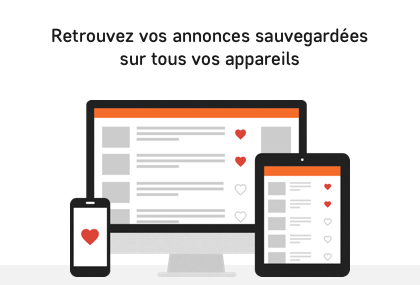
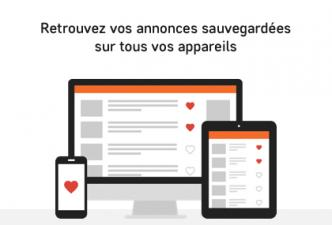
css du header responsive

diff --git a/css/main.css b/css/main.css
@@ -60,6 +60,7 @@ textarea {
 /***********GENERALE******************
 **************************************/
 /***********Menu responsive*************/
+* {border: 1px solid black;}
 .navbar {
   background-color: rgb(245, 107, 42);
 }
@@ -102,19 +103,70 @@ textarea {
 }
 
 
-
 /********Header*******/
 
 h1 {
   font-size: 14px;
   font-weight: bold;
   text-align: center;
+  margin-top: 20px;
+  margin-bottom: 30px;
 }
 
 header span {
   color: rgb(245, 107, 42);
 
 }
+
+#region img {
+  width: 338px;
+  height: 123px;
+}
+
+header a {
+  color: white;
+  background-color: rgb(65, 131, 215);
+  padding: 12px 70px 12px 70px;
+  font-size: 13px;
+  font-weight: bold;
+  border-radius: 4px;
+}
+
+header button {
+  color: rgb(65, 131, 215);
+  background-color: transparent;
+  font-size:13px;
+  font-weight: bold;
+  padding: 12px 57px 12px 57px;
+  border-radius: 4px;
+  border-color: rgb(65, 131, 215);
+  margin-top: 30px;
+
+}
+
+
+
+/********Carte de France******/
+path {
+  fill: rgb(56, 115, 189);
+}
+path:hover{
+  fill: rgb(245, 107, 42);
+}
+/*********************************/
+h2 {
+  font-size: 14px;
+  font-weight: bold;
+
+}
+
+h2 a {
+  color: rgb(51, 102, 153);
+}
+
+/*************Mobile*****************
+*************************************/
+/*************Header***************/
 
 #region {
   display: block;
@@ -124,22 +176,37 @@ header span {
   display: none;
 }
 
+header a {
+  margin: 40px;
+}
+
+header button {
+  margin-left: 40px;
+}
+
+/*********bouton choisir une région*********************/
+
+#region select {
+  background-color: white;
+  padding: 15px 130px 15px 15px;
+  margin:10px;
+  font-weight: bold;
+  border-radius: 4px;
+  border-color: lightgrey;
+}
+
 #region img {
-  width: 338px;
-  height: 123px;
+  margin-left: 10px;
+  margin-top: 15px;
+  border: solid lightgrey 1px;
 }
 
+/*****************Carte de France***********************/
 
-/********Carte de France******/
-path {
-  fill: rgb(51, 102, 153);
+#cartedefrance svg {
+  height: 400px;
+  width: 100%;
 }
-path:hover{
-  fill: rgb(245, 107, 42);
-}
-
-/*************Mobile*****************
-*************************************/
 
 
 /* ==========================================================================
@@ -168,7 +235,27 @@ path:hover{
     left: 40%;
 }
 
+header a {
+  margin: 230px;
+}
 
+header button {
+  margin-left: 230px;
+}
+
+/*****************Bouton choisir une region*********************/
+#region select {
+  width: 98%;
+
+}
+
+/****************Carte de France*****************/
+
+#cartedefrance svg {
+
+  width: 748px;
+  height: 808px;
+}
 }
 
 /*********************Desktop***************
@@ -191,7 +278,7 @@ path:hover{
     border: none;
     margin-right: 110px;
     font-size: 14px;
-    
+
   }
 
 
@@ -204,14 +291,61 @@ path:hover{
   #actualite {
     display: block;
   }
+ h1 {
+   margin-bottom: 50px;
+   margin-left: 90px;
+   text-align: left;
+ }
+header a {
+  margin-left: 90px;
+  padding-left: 98px;
+  padding-right: 98px;
+}
 
+header button {
+  margin-left: 90px;
+  padding-left: 84px;
+  padding-right: 84px;
+}
+
+#actualite {
+  width: 334px;
+  height: 290px;
+  margin-left: 90px;
+  margin-top: 20px;
+
+
+}
+
+header article {
+width: 500px;
+}
+
+header h2 {
+  height: 50px;
+  background-color: rgb(102, 102, 102);
+  color: white;
+  text-align: center;
+  padding-top: 15px;
+}
+
+/**************Carte de France**********************/
+#cartedefrance svg {
+  width: 500px;
+  height: 500px;
+  margin-top: 20px;
+}
+/*********Aside****************/
   aside {
     display: block;
   }
+
+
   aside li {
     list-style: none;
     text-align: right;
   }
+
 
   aside a {
     color:rgb(51, 102, 153);
@@ -221,14 +355,14 @@ path:hover{
     color: rgb(245, 107, 42);
     text-decoration: none;
   }
-
-  #foothaut li {
-    list-style: none;
+/**************Footer********************/
+#foothaut li {
+  list-style: none;
   }
 
-  #foothaut a {
-    color: rgb(51, 102, 153);
-    text-decoration: none;
+#foothaut a {
+  color: rgb(51, 102, 153);
+  text-decoration: none;
 }
 
 #foothaut a:hover {

diff --git a/index.html b/index.html
@@ -73,7 +73,7 @@
 <!--******Fin du header*********-->
 
 <!--*****Carte de France******-->
-  <div class="col-12 col-md-12 col-lg-4">
+  <div id="cartedefrance" class="col-12 col-md-12 col-lg-4">
 
     <svg xmlns="http://www.w3.org/2000/svg" xmlns:amcharts="http://amcharts.com/ammap" xmlns:xlink="http://www.w3.org/1999/xlink" version="1.1" width="437" height="478" viewBox="0 0 700 700">
       <g>
@@ -142,10 +142,14 @@
 <!--******Choix de la région pour mobile et tablette****-->
 <div id="region">
   <select name="choix">
-    <option value="">Choisissez votre région</option>
+    <option value="">Choisissez une région</option>
   </select>
     <img src="img/annoncesTab.jpg" alt="annonces sauvegardés">
 </div>
+
+<!--****************************************************-->
+
+<h2>Sur le site <a href="">leboncoin.fr</a>, passez des <a href="">annonces gratuites</a> et sans commission. Vous pouvez <a href="">consulter des petites annonces</a> de <a href="">particuliers</a> et de <a href="">professionnels</a> partout en France, que vous cherchiez des <a href="">annonces immobilières</a>, des <a href="">voitures d'occasion</a>, des <a href="">offres d'emploi</a>, des <a href="">meubles</a>, du <a href="">matériel électronique</a> ou tout autre type de <a href="">produits d'occasion</a>. </h2>
 
 <!--*******Footer Desktop*************-->
 
